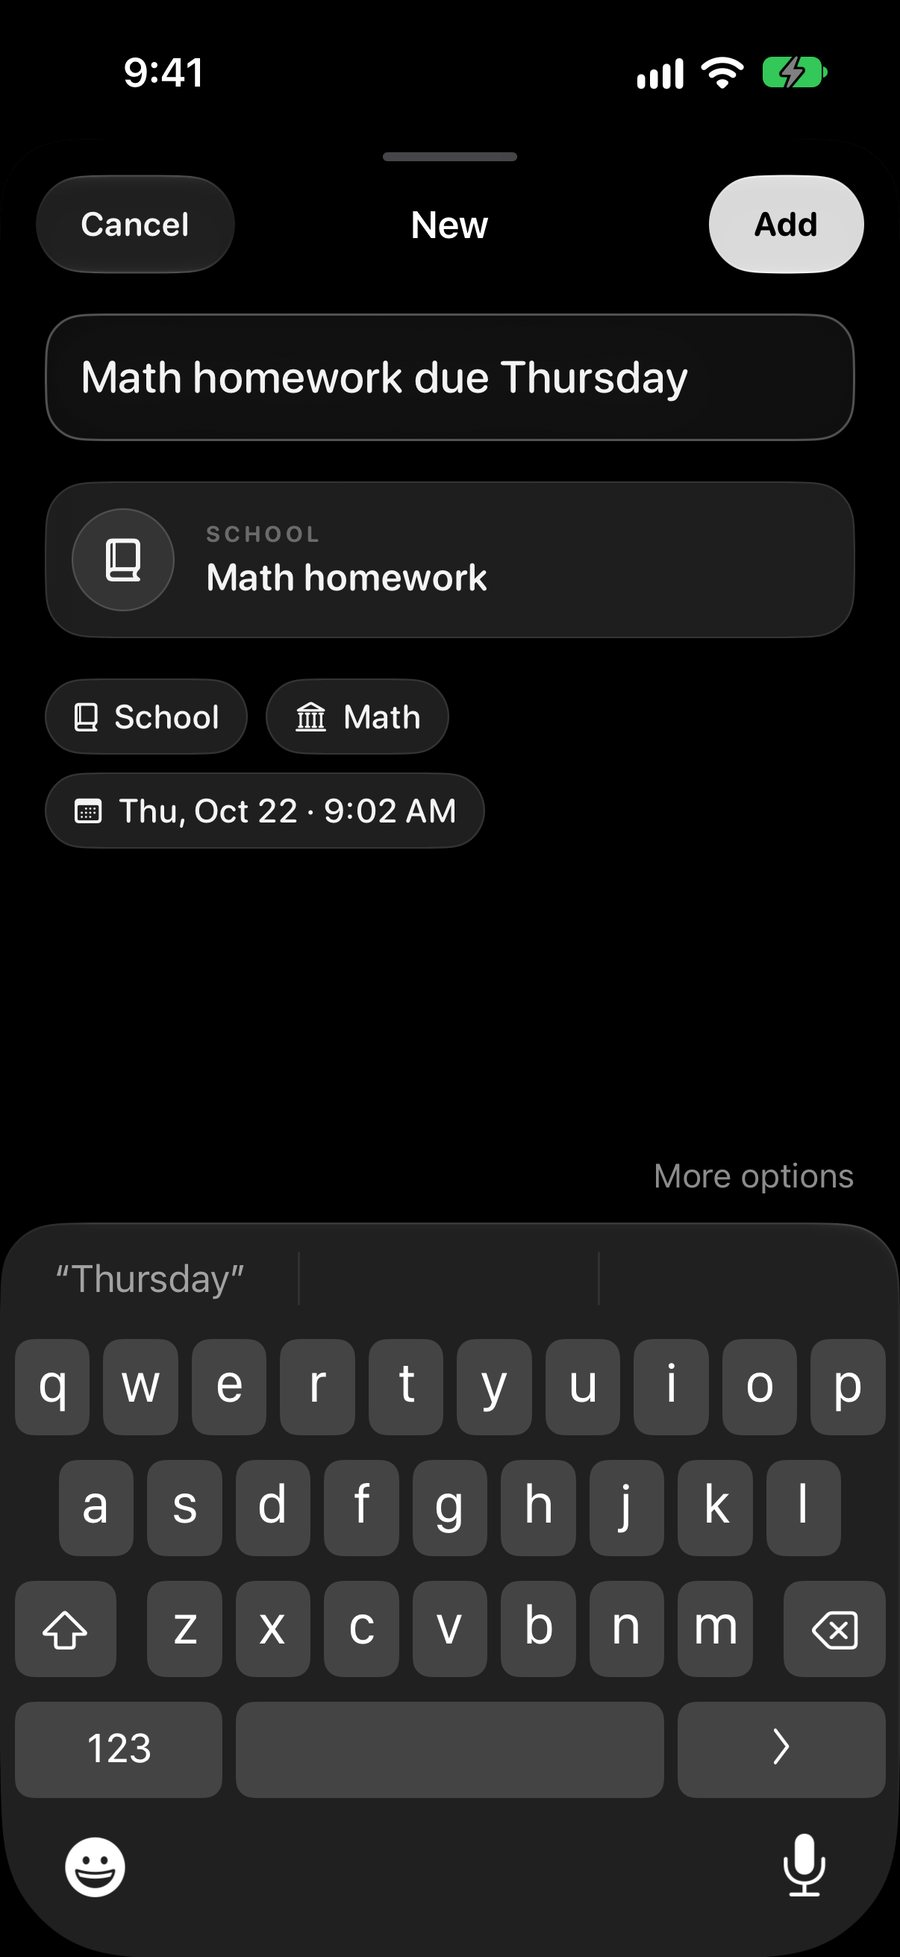
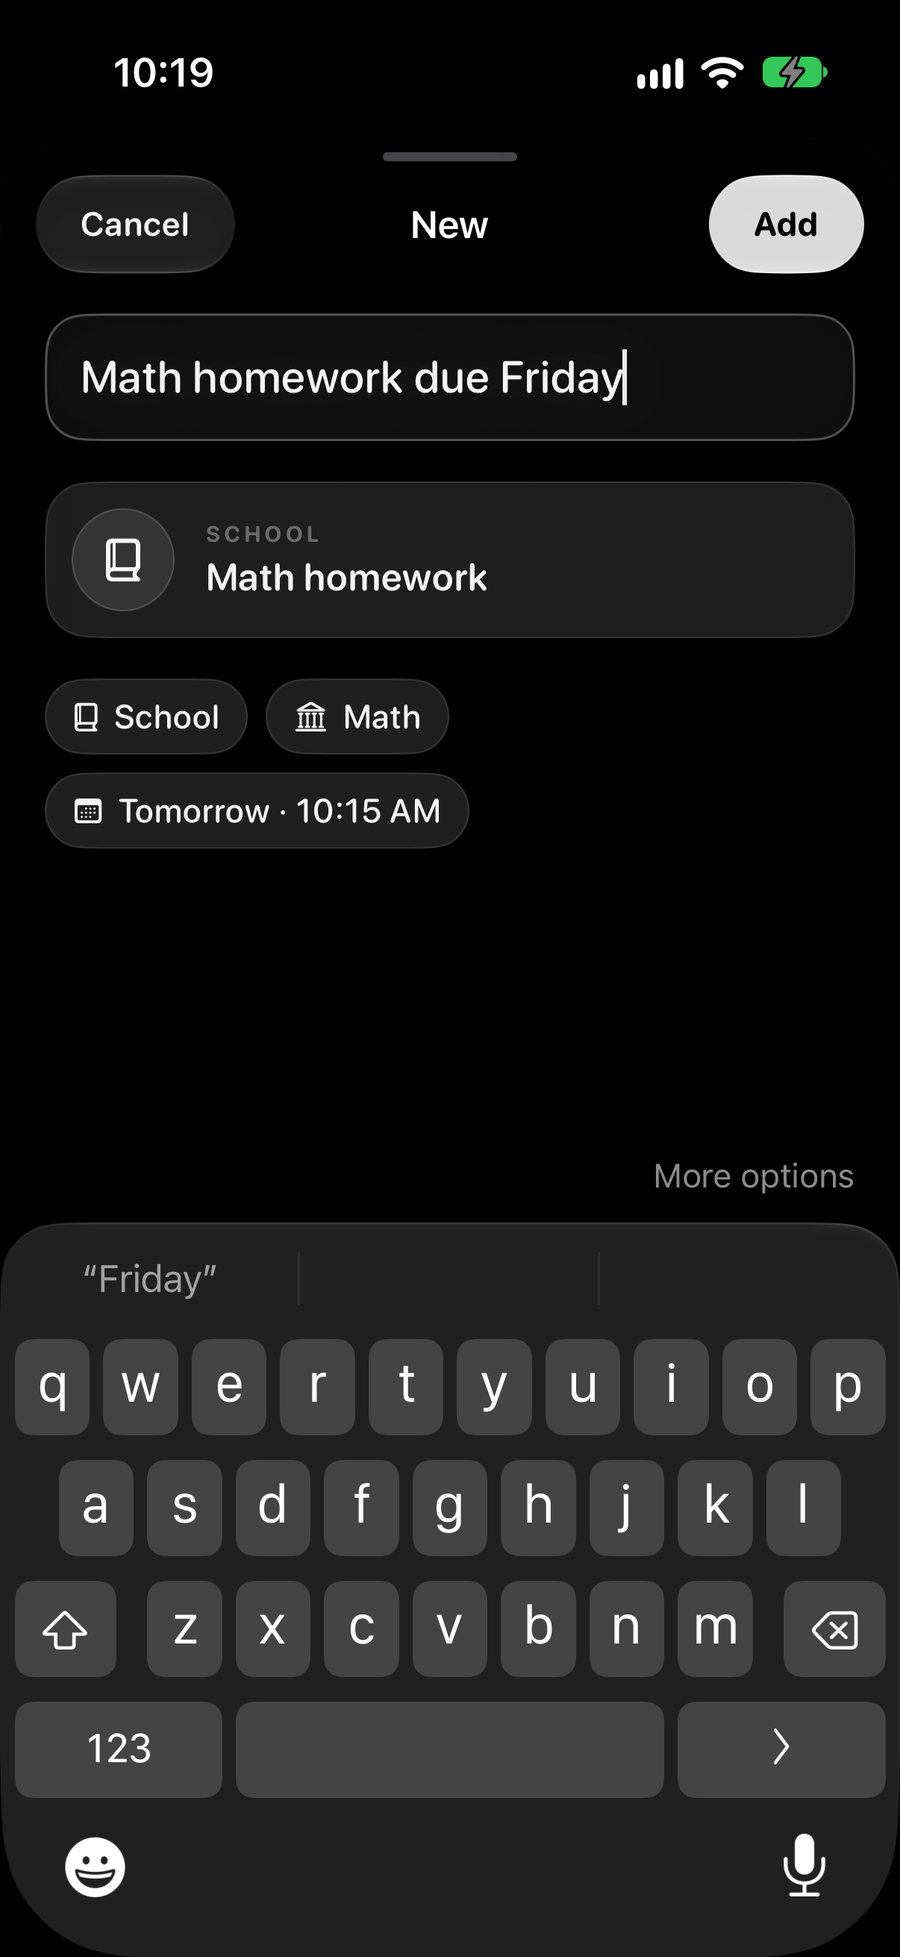
Top bar, clearer wording, screenshots with consistent data

diff --git a/index.html b/index.html
@@ -21,14 +21,30 @@ img{display:block;max-width:100%}
 .nav .wrap{height:100%;display:flex;align-items:center;justify-content:space-between}
 .brand{display:flex;align-items:center;gap:10px;font-size:17px;font-weight:600;letter-spacing:-.01em;text-decoration:none}
 .brand i{width:16px;height:16px;border-radius:50%;background:radial-gradient(circle at 36% 30%,#f2f2f2,#9a9a9a 38%,#3a3a3a 72%,#111)}
-.nav ul{display:flex;gap:28px;list-style:none}
+.nav ul{display:flex;gap:30px;list-style:none}
 .nav a.l{font-size:13px;color:var(--muted);text-decoration:none;transition:color .2s}
-.nav a.l:hover{color:var(--text)}
+.nav a.l:hover,.nav a.l.on{color:var(--text)}
+.menu-btn{display:none;background:none;border:0;color:var(--text);font:inherit;font-size:14px;cursor:pointer;padding:8px 0 8px 12px;align-items:center;gap:8px}
+.menu-btn i{display:block;width:16px;height:9px;position:relative}
+.menu-btn i::before,.menu-btn i::after{content:"";position:absolute;left:0;right:0;height:1.5px;background:currentColor;border-radius:1px;transition:transform .25s,top .25s}
+.menu-btn i::before{top:0}.menu-btn i::after{top:7px}
+.nav.open .menu-btn i::before{top:3.5px;transform:rotate(45deg)}
+.nav.open .menu-btn i::after{top:3.5px;transform:rotate(-45deg)}
+section[id]{scroll-margin-top:60px}
+@media(max-width:760px){
+  .menu-btn{display:inline-flex}
+  .nav ul{position:absolute;top:52px;left:0;right:0;flex-direction:column;gap:0;background:rgba(0,0,0,.94);backdrop-filter:saturate(180%) blur(20px);-webkit-backdrop-filter:saturate(180%) blur(20px);border-bottom:1px solid var(--line);padding:6px 24px 14px;opacity:0;visibility:hidden;transform:translateY(-6px);transition:opacity .25s,transform .25s,visibility .25s}
+  .nav.open ul{opacity:1;visibility:visible;transform:none}
+  .nav a.l{display:block;font-size:19px;color:var(--text);padding:13px 0;border-bottom:1px solid var(--line)}
+  .nav li:last-child a.l{border-bottom:0}
+}
 
 /* type */
 .eyebrow{font-size:14px;font-weight:600;color:var(--muted);letter-spacing:.01em;margin-bottom:14px}
 h1{font-size:clamp(46px,8.2vw,96px);line-height:1.02;letter-spacing:-.045em;font-weight:700}
 h2{font-size:clamp(32px,4.6vw,56px);line-height:1.07;letter-spacing:-.035em;font-weight:700}
+h1,h2{text-wrap:balance}
+.body,.lede{text-wrap:pretty}
 .lede{font-size:clamp(19px,2vw,24px);line-height:1.42;color:var(--muted);letter-spacing:-.01em;font-weight:400}
 .body{font-size:19px;line-height:1.5;color:var(--muted);letter-spacing:-.005em}
 .soon{display:inline-flex;align-items:center;gap:9px;margin-top:34px;padding:12px 22px;border-radius:999px;font-size:16px;font-weight:600;background:var(--text);color:#000}
@@ -55,7 +71,7 @@ h2{font-size:clamp(32px,4.6vw,56px);line-height:1.07;letter-spacing:-.035em;font
 .feature{padding:clamp(80px,12vw,150px) 0}
 .feature .wrap{display:grid;grid-template-columns:1fr 1fr;gap:clamp(40px,8vw,120px);align-items:center}
 .feature.flip .copy{order:2}
-.feature .copy h2{max-width:12ch}
+.feature .copy h2{max-width:15ch}
 .feature .copy .body{margin-top:22px;max-width:30em}
 .feature .art{display:flex;justify-content:center}
 .feature .art .phone{width:min(320px,70vw)}
@@ -119,16 +135,17 @@ footer a:hover{color:var(--text)}
 </style>
 </head>
 <body>
-<header class="nav"><div class="wrap">
-  <a class="brand" href="index.html"><i></i>Untangled</a>
-  <ul><li><a class="l" href="index.html#privacy">Privacy</a></li></ul>
+<header class="nav" id="nav"><div class="wrap">
+  <a class="brand" href="#"><i></i>Untangled</a>
+  <button class="menu-btn" id="menuBtn" aria-expanded="false" aria-controls="menuList">Menu<i></i></button>
+  <ul id="menuList"><li><a class="l" href="#add" data-s="add">+ Add</a></li><li><a class="l" href="#home" data-s="home">Home</a></li><li><a class="l" href="#tasks" data-s="tasks">Tasks</a></li><li><a class="l" href="#plan" data-s="plan">Plan</a></li><li><a class="l" href="#school" data-s="school">School</a></li><li><a class="l" href="#privacy" data-s="privacy">Privacy</a></li></ul>
 </div></header>
 
 <main>
 <section class="hero">
   <div class="wrap">
     <h1 class="rv">Your day, untangled.</h1>
-    <p class="lede rv">One app for your classes, homework, tests and everything else you have going on.</p>
+    <p class="lede rv">One app for your classes, homework, tests, and everything else you have going on.</p>
     <span class="soon rv"><svg class="ap" viewBox="0 0 24 24" aria-hidden="true"><path fill="currentColor" d="M12.152 6.896c-.948 0-2.415-1.078-3.96-1.04-2.04.027-3.91 1.183-4.961 3.014-2.117 3.675-.546 9.103 1.519 12.09 1.013 1.454 2.208 3.09 3.792 3.039 1.52-.065 2.09-.987 3.935-.987 1.831 0 2.35.987 3.96.948 1.637-.026 2.676-1.48 3.676-2.948 1.156-1.688 1.636-3.325 1.662-3.415-.039-.013-3.182-1.221-3.22-4.857-.026-3.04 2.48-4.494 2.597-4.559-1.429-2.09-3.623-2.324-4.39-2.376-2-.156-3.675 1.09-4.61 1.09zM15.53 3.83c.843-1.012 1.4-2.427 1.245-3.83-1.207.052-2.662.805-3.532 1.818-.78.896-1.454 2.338-1.273 3.714 1.338.104 2.715-.688 3.559-1.701"/></svg>Coming to the App Store soon</span>
   </div>
   <div class="stage rv">
@@ -141,11 +158,11 @@ footer a:hover{color:var(--text)}
 <section class="feature" id="add">
   <div class="wrap">
     <div class="copy rv">
-      <p class="eyebrow">Add</p>
-      <h2>Type it the way you’d say it.</h2>
-      <p class="body">Write “Math homework due Thursday” and Untangled works out that it’s school work, which class it’s for, and the day. Put a time, a place or a repeat in the same line and it picks those up too.</p>
+      <p class="eyebrow">+ Add</p>
+      <h2>Tap + and type it the way you’d say it.</h2>
+      <p class="body">Write “Math homework due Friday,” and Untangled works out that it’s school work, that it’s for Math, and which day it’s due. Add a time, a place, or a repeat in the same sentence, and it picks those up too.</p>
     </div>
-    <div class="art rv"><figure class="phone "><img src="screens/add.jpg" alt="Quick Add turning a typed sentence into a Math homework item" width="900" height="1957" loading="lazy"></figure></div>
+    <div class="art rv"><figure class="phone "><img src="screens/add.jpg" alt="Typing Math homework due Friday, which Untangled turns into a School item for Math due tomorrow" width="900" height="1957" loading="lazy"></figure></div>
   </div>
 </section>
 
@@ -154,9 +171,9 @@ footer a:hover{color:var(--text)}
     <div class="copy rv">
       <p class="eyebrow">Home</p>
       <h2>What’s happening now, and what’s next.</h2>
-      <p class="body">Home shows the class you’re in and how long is left, what’s due today, and the one thing worth doing next. It leaves everything else out of the way.</p>
+      <p class="body">Home shows the class you’re in and how many minutes are left, what’s due today, and the one thing worth doing next. Everything else stays out of the way.</p>
     </div>
-    <div class="art rv"><figure class="phone "><img src="screens/home.jpg" alt="Home screen" width="900" height="1957" loading="lazy"></figure></div>
+    <div class="art rv"><figure class="phone "><img src="screens/home.jpg" alt="Home screen showing Math with 10 minutes left, then the work due today" width="900" height="1957" loading="lazy"></figure></div>
   </div>
 </section>
 
@@ -164,12 +181,12 @@ footer a:hover{color:var(--text)}
   <div class="wrap">
     <div class="copy rv">
       <p class="eyebrow">Tasks and calendar</p>
-      <h2>Everything in one list. Every day on one clock.</h2>
-      <p class="body">Homework, tests, events, reminders and birthdays all live together. See them by day or by class, and swipe right to finish something. In the calendar, your classes run in a narrow column beside the rest of your day, so free time is easy to spot.</p>
+      <h2>Everything in one list, every day on one clock.</h2>
+      <p class="body">Homework, tests, events, reminders, and birthdays all live together. See them by day or by class, and swipe right to finish something. In the calendar, your classes run in a narrow column beside the rest of your day, so it’s easy to see when you’re free.</p>
     </div>
     <div class="duo rv">
-      <figure class="phone "><img src="screens/tasks.jpg" alt="Tasks list grouped by day" width="900" height="1957" loading="lazy"></figure>
-      <figure class="phone "><img src="screens/day2.jpg" alt="Calendar day view" width="900" height="1957" loading="lazy"></figure>
+      <figure class="phone "><img src="screens/tasks.jpg" alt="Tasks list showing what is due today and tomorrow" width="900" height="1957" loading="lazy"></figure>
+      <figure class="phone "><img src="screens/day2.jpg" alt="Calendar day view with classes beside events" width="900" height="1957" loading="lazy"></figure>
     </div>
   </div>
 </section>
@@ -179,9 +196,9 @@ footer a:hover{color:var(--text)}
     <div class="copy rv">
       <p class="eyebrow">Today’s plan</p>
       <h2>A plan for tonight’s homework.</h2>
-      <p class="body">Untangled puts tests first, then whatever is due soonest, and fits it into your homework time. Start now, pick a later time, or skip something for today. It never plans work over your bedtime.</p>
+      <p class="body">Untangled puts tests first, then whatever is due soonest, and fits the work into your homework time. Start now, pick a time later, or skip something for today. It never plans work over your bedtime.</p>
     </div>
-    <div class="art rv"><figure class="phone "><img src="screens/plan.jpg" alt="Today's plan with a suggested first task" width="900" height="1957" loading="lazy"></figure></div>
+    <div class="art rv"><figure class="phone "><img src="screens/plan.jpg" alt="Today's plan suggesting to study for tomorrow's Math test first" width="900" height="1957" loading="lazy"></figure></div>
   </div>
 </section>
 
@@ -189,11 +206,11 @@ footer a:hover{color:var(--text)}
   <div class="wrap">
     <div class="copy rv">
       <p class="eyebrow">School</p>
-      <h2>Your school day is built in.</h2>
+      <h2>Your school day, built in.</h2>
     </div>
     <div class="row">
-      <p class="body rv">Enter your periods once. Untangled shows the class you’re in and what comes after it on Home, on the Lock Screen and in the Dynamic Island. Half days and special schedules are covered too.</p>
-      <div class="card rv" style="margin-top:0"><img src="screens/school-card.jpg" alt="Home card showing Math with 30 minutes left, followed by what is due" loading="lazy" width="1126" height="575"></div>
+      <p class="body rv">Enter your periods once, and Home always shows the class you’re in, how many minutes are left, and what comes next. You’ll see it on the Lock Screen and in the Dynamic Island too, and half days and special schedules are covered.</p>
+      <div class="card rv" style="margin-top:0"><img src="screens/school-card.jpg" alt="Home card showing Math with 10 minutes left, the next class, and what is due" width="1126" height="575"></div>
     </div>
   </div>
 </section>
@@ -204,10 +221,10 @@ footer a:hover{color:var(--text)}
     <div class="grid rv">
       <div><h3>Widgets</h3><p>Next Up and a day timeline for your Home Screen and Lock Screen.</p></div>
       <div><h3>Reminders</h3><p>A reminder before something is due, at a time picked for you or one you choose.</p></div>
-      <div><h3>Sleep</h3><p>Set your bedtime and wake-up once. Plans and suggested times work around them.</p></div>
-      <div><h3>Class alerts</h3><p>A heads-up shortly before each class starts. Turn it off any time.</p></div>
-      <div><h3>Sync</h3><p>Sign in with Google and your list is on every device you use.</p></div>
-      <div><h3>Offline</h3><p>It works without a connection and catches up when you’re back.</p></div>
+      <div><h3>Sleep</h3><p>Set your bedtime and wake-up time once, and plans and suggested times work around them.</p></div>
+      <div><h3>Class alerts</h3><p>A heads-up a few minutes before each class starts. You can turn it off any time.</p></div>
+      <div><h3>Sync</h3><p>Sign in with Google, and your list is on every device you use.</p></div>
+      <div><h3>Offline</h3><p>It works without a connection, and catches up when you’re back online.</p></div>
     </div>
   </div>
 </section>
@@ -215,7 +232,7 @@ footer a:hover{color:var(--text)}
 <section class="privacy-sum">
   <div class="wrap">
     <h2 class="rv">Your data stays yours.</h2>
-    <p class="body rv">No ads and no tracking. Your list syncs to your own account and goes nowhere else. You can delete your account, and everything in it, from Settings.</p>
+    <p class="body rv">No ads and no tracking. Your list syncs to your own account and goes nowhere else, and you can delete your account, and everything in it, from Settings.</p>
     <a class="more rv" href="#privacy">Read the privacy policy</a>
   </div>
 </section>
@@ -303,6 +320,21 @@ footer a:hover{color:var(--text)}
 
 <script>
 document.documentElement.classList.add('js');
+(function(){
+  var nav=document.getElementById('nav'),btn=document.getElementById('menuBtn');
+  if(!nav||!btn)return;
+  function set(o){nav.classList.toggle('open',o);btn.setAttribute('aria-expanded',o?'true':'false')}
+  btn.addEventListener('click',function(){set(!nav.classList.contains('open'))});
+  nav.querySelectorAll('a.l').forEach(function(a){a.addEventListener('click',function(){set(false)})});
+  document.addEventListener('keydown',function(e){if(e.key==='Escape')set(false)});
+  document.addEventListener('click',function(e){if(!nav.contains(e.target))set(false)});
+  var links={};nav.querySelectorAll('a.l[data-s]').forEach(function(a){links[a.dataset.s]=a});
+  var ids=Object.keys(links).map(function(k){return document.getElementById(k)}).filter(Boolean);
+  if(!ids.length)return;
+  function upd(){var y=window.scrollY+120,cur=null;ids.forEach(function(el){if(el.offsetTop<=y)cur=el.id});
+    Object.keys(links).forEach(function(k){links[k].classList.toggle('on',k===cur)})}
+  addEventListener('scroll',upd,{passive:true});upd();
+})();
 (function(){
   var els=[].slice.call(document.querySelectorAll('.rv'));
   if(!('IntersectionObserver' in window)){els.forEach(function(e){e.classList.add('in')});return}

diff --git a/privacy.html b/privacy.html
@@ -21,14 +21,30 @@ img{display:block;max-width:100%}
 .nav .wrap{height:100%;display:flex;align-items:center;justify-content:space-between}
 .brand{display:flex;align-items:center;gap:10px;font-size:17px;font-weight:600;letter-spacing:-.01em;text-decoration:none}
 .brand i{width:16px;height:16px;border-radius:50%;background:radial-gradient(circle at 36% 30%,#f2f2f2,#9a9a9a 38%,#3a3a3a 72%,#111)}
-.nav ul{display:flex;gap:28px;list-style:none}
+.nav ul{display:flex;gap:30px;list-style:none}
 .nav a.l{font-size:13px;color:var(--muted);text-decoration:none;transition:color .2s}
-.nav a.l:hover{color:var(--text)}
+.nav a.l:hover,.nav a.l.on{color:var(--text)}
+.menu-btn{display:none;background:none;border:0;color:var(--text);font:inherit;font-size:14px;cursor:pointer;padding:8px 0 8px 12px;align-items:center;gap:8px}
+.menu-btn i{display:block;width:16px;height:9px;position:relative}
+.menu-btn i::before,.menu-btn i::after{content:"";position:absolute;left:0;right:0;height:1.5px;background:currentColor;border-radius:1px;transition:transform .25s,top .25s}
+.menu-btn i::before{top:0}.menu-btn i::after{top:7px}
+.nav.open .menu-btn i::before{top:3.5px;transform:rotate(45deg)}
+.nav.open .menu-btn i::after{top:3.5px;transform:rotate(-45deg)}
+section[id]{scroll-margin-top:60px}
+@media(max-width:760px){
+  .menu-btn{display:inline-flex}
+  .nav ul{position:absolute;top:52px;left:0;right:0;flex-direction:column;gap:0;background:rgba(0,0,0,.94);backdrop-filter:saturate(180%) blur(20px);-webkit-backdrop-filter:saturate(180%) blur(20px);border-bottom:1px solid var(--line);padding:6px 24px 14px;opacity:0;visibility:hidden;transform:translateY(-6px);transition:opacity .25s,transform .25s,visibility .25s}
+  .nav.open ul{opacity:1;visibility:visible;transform:none}
+  .nav a.l{display:block;font-size:19px;color:var(--text);padding:13px 0;border-bottom:1px solid var(--line)}
+  .nav li:last-child a.l{border-bottom:0}
+}
 
 /* type */
 .eyebrow{font-size:14px;font-weight:600;color:var(--muted);letter-spacing:.01em;margin-bottom:14px}
 h1{font-size:clamp(46px,8.2vw,96px);line-height:1.02;letter-spacing:-.045em;font-weight:700}
 h2{font-size:clamp(32px,4.6vw,56px);line-height:1.07;letter-spacing:-.035em;font-weight:700}
+h1,h2{text-wrap:balance}
+.body,.lede{text-wrap:pretty}
 .lede{font-size:clamp(19px,2vw,24px);line-height:1.42;color:var(--muted);letter-spacing:-.01em;font-weight:400}
 .body{font-size:19px;line-height:1.5;color:var(--muted);letter-spacing:-.005em}
 .soon{display:inline-flex;align-items:center;gap:9px;margin-top:34px;padding:12px 22px;border-radius:999px;font-size:16px;font-weight:600;background:var(--text);color:#000}
@@ -55,7 +71,7 @@ h2{font-size:clamp(32px,4.6vw,56px);line-height:1.07;letter-spacing:-.035em;font
 .feature{padding:clamp(80px,12vw,150px) 0}
 .feature .wrap{display:grid;grid-template-columns:1fr 1fr;gap:clamp(40px,8vw,120px);align-items:center}
 .feature.flip .copy{order:2}
-.feature .copy h2{max-width:12ch}
+.feature .copy h2{max-width:15ch}
 .feature .copy .body{margin-top:22px;max-width:30em}
 .feature .art{display:flex;justify-content:center}
 .feature .art .phone{width:min(320px,70vw)}
@@ -119,9 +135,10 @@ footer a:hover{color:var(--text)}
 </style>
 </head>
 <body>
-<header class="nav"><div class="wrap">
+<header class="nav" id="nav"><div class="wrap">
   <a class="brand" href="index.html"><i></i>Untangled</a>
-  <ul><li><a class="l" href="index.html#privacy">Privacy</a></li></ul>
+  <button class="menu-btn" id="menuBtn" aria-expanded="false" aria-controls="menuList">Menu<i></i></button>
+  <ul id="menuList"><li><a class="l" href="index.html#add" data-s="add">+ Add</a></li><li><a class="l" href="index.html#home" data-s="home">Home</a></li><li><a class="l" href="index.html#tasks" data-s="tasks">Tasks</a></li><li><a class="l" href="index.html#plan" data-s="plan">Plan</a></li><li><a class="l" href="index.html#school" data-s="school">School</a></li><li><a class="l" href="index.html#privacy" data-s="privacy">Privacy</a></li></ul>
 </div></header>
 
 <main><section style="padding:64px 0 90px">
@@ -203,5 +220,30 @@ footer a:hover{color:var(--text)}
   <span>&copy; 2026 Ahmed Memon. Untangled is made for iPhone.</span>
   <span><a href="index.html#privacy">Privacy Policy</a> &nbsp;·&nbsp; <a href="mailto:untangledsupportteam@gmail.com">Contact</a></span>
 </div></footer>
+
+<script>
+document.documentElement.classList.add('js');
+(function(){
+  var nav=document.getElementById('nav'),btn=document.getElementById('menuBtn');
+  if(!nav||!btn)return;
+  function set(o){nav.classList.toggle('open',o);btn.setAttribute('aria-expanded',o?'true':'false')}
+  btn.addEventListener('click',function(){set(!nav.classList.contains('open'))});
+  nav.querySelectorAll('a.l').forEach(function(a){a.addEventListener('click',function(){set(false)})});
+  document.addEventListener('keydown',function(e){if(e.key==='Escape')set(false)});
+  document.addEventListener('click',function(e){if(!nav.contains(e.target))set(false)});
+  var links={};nav.querySelectorAll('a.l[data-s]').forEach(function(a){links[a.dataset.s]=a});
+  var ids=Object.keys(links).map(function(k){return document.getElementById(k)}).filter(Boolean);
+  if(!ids.length)return;
+  function upd(){var y=window.scrollY+120,cur=null;ids.forEach(function(el){if(el.offsetTop<=y)cur=el.id});
+    Object.keys(links).forEach(function(k){links[k].classList.toggle('on',k===cur)})}
+  addEventListener('scroll',upd,{passive:true});upd();
+})();
+(function(){
+  var els=[].slice.call(document.querySelectorAll('.rv'));
+  if(!('IntersectionObserver' in window)){els.forEach(function(e){e.classList.add('in')});return}
+  var io=new IntersectionObserver(function(es){es.forEach(function(e){if(e.isIntersecting){e.target.classList.add('in');io.unobserve(e.target)}})},{rootMargin:'0px 0px -8% 0px',threshold:.08});
+  els.forEach(function(e){io.observe(e)});
+})();
+</script>
 </body>
 </html>
